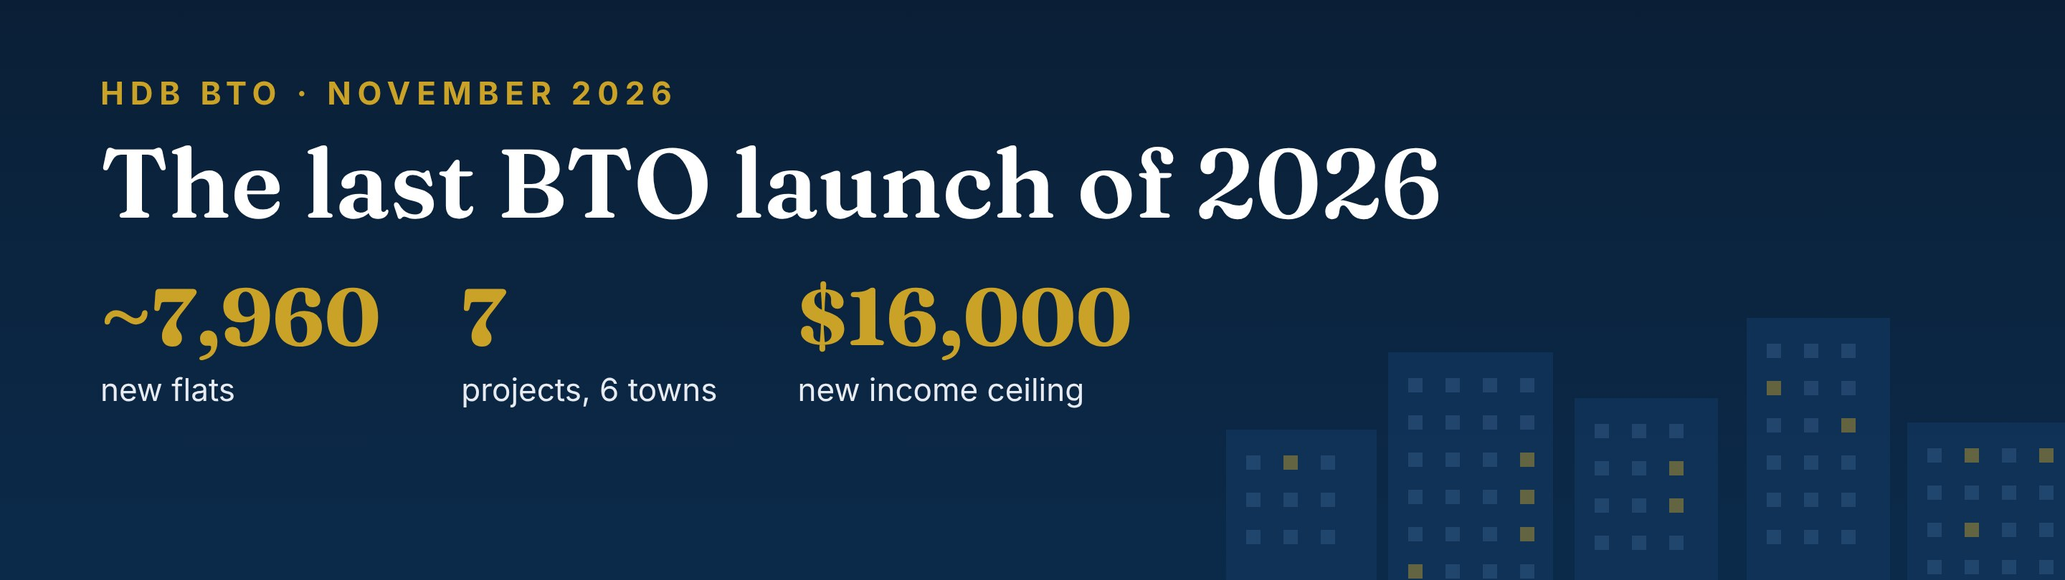
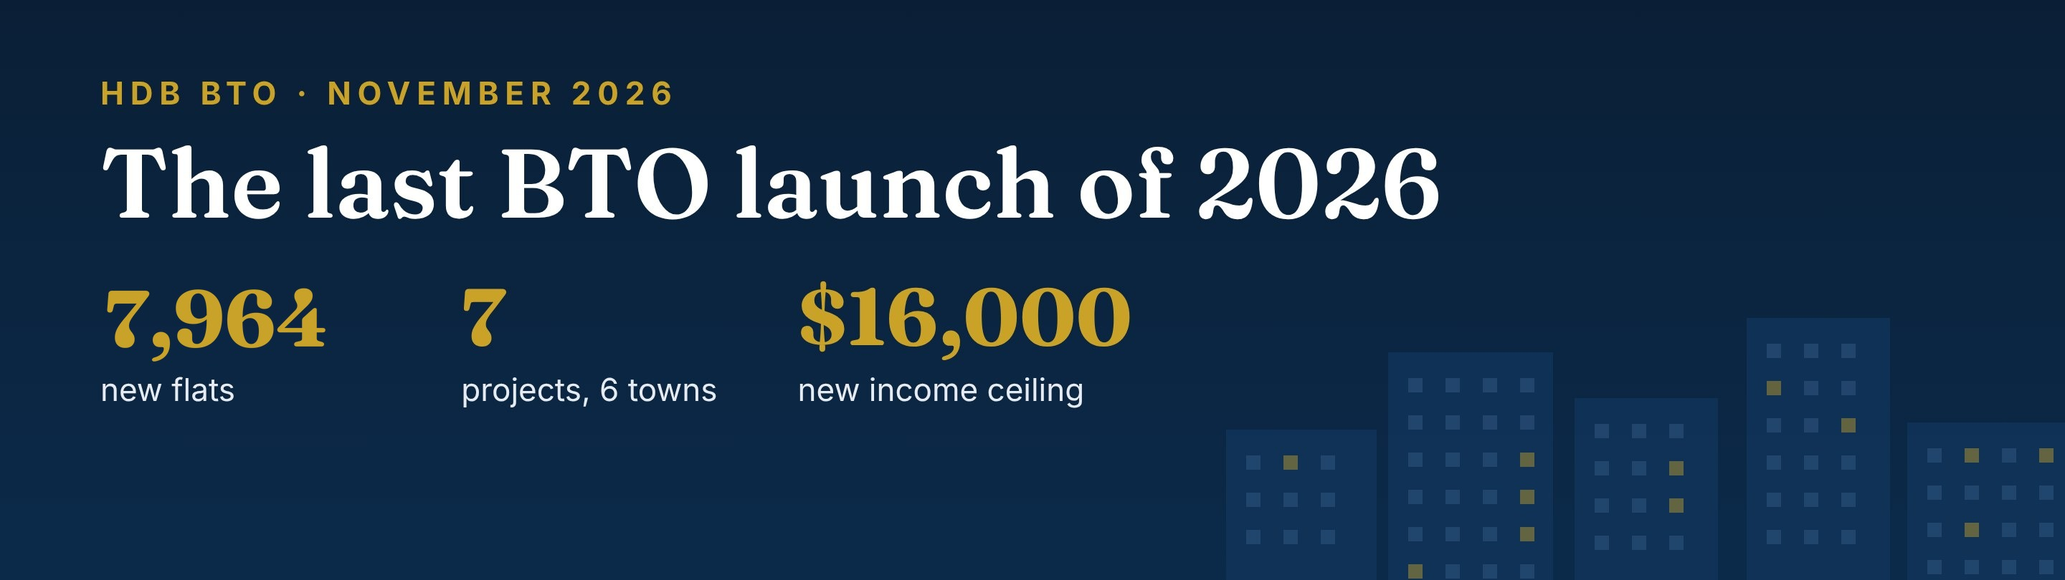
Nov 2026 BTO post: official launch details (HDB, 4 Nov 2026)
Official project names, tiers and subsidy recovery, unit counts, 4-room
prices before/after grants, waiting times, application window 4-11 Nov,
Feb 2027 plans. Regenerated banner, hero, map and flat-mix images.

Claude-Session: https://claude.ai/code/session_0178RRDYhp3XjPR3UywzJnpp

Changed region(s): [[0.0312, 0.4938, 0.1875, 0.6173]]

diff --git a/blog-post-november-2026-bto-launch.html b/blog-post-november-2026-bto-launch.html
@@ -3,24 +3,24 @@
 <head>
 <meta charset="UTF-8">
 <meta name="viewport" content="width=device-width, initial-scale=1.0">
-<title>Nov 2026 BTO Launch: 7 Projects, ~7,960 Flats | Serene Lee</title>
-<meta name="description" content="HDB&#x27;s last 2026 BTO launch: Bayshore Oasis, Caldecott, Mattar, Chencharu, Sembawang Anchor, Plantation Dew (Tengah). Flat mix, prices, the $16,000 income ceiling, ballot tips.">
+<title>Nov 2026 BTO Launch: 7 Projects, 7,964 Flats | Serene Lee</title>
+<meta name="description" content="HDB&#x27;s last 2026 BTO launch (apply 4&ndash;11 Nov): Bayshore Sails, Bayshore Oasis, Toa Payoh Hillside, Merpati Meadow, Chencharu Acres, Sembawang Anchor, Plantation Dew. Official tiers, prices, waiting times and ballot tips.">
 <link rel="canonical" href="https://sereneleeproperty.com/blog-post-november-2026-bto-launch">
-<meta property="og:title" content="Nov 2026 BTO Launch: 7 Projects, ~7,960 Flats | Serene Lee">
-<meta property="og:description" content="HDB&#x27;s last 2026 BTO launch: Bayshore Oasis, Caldecott, Mattar, Chencharu, Sembawang Anchor, Plantation Dew (Tengah). Flat mix, prices, the $16,000 income ceiling, ballot tips.">
+<meta property="og:title" content="Nov 2026 BTO Launch: 7 Projects, 7,964 Flats | Serene Lee">
+<meta property="og:description" content="HDB&#x27;s last 2026 BTO launch (apply 4&ndash;11 Nov): Bayshore Sails, Bayshore Oasis, Toa Payoh Hillside, Merpati Meadow, Chencharu Acres, Sembawang Anchor, Plantation Dew. Official tiers, prices, waiting times and ballot tips.">
 <meta property="og:image" content="https://sereneleeproperty.com/assets/bto-nov-2026-hero.jpg">
 <meta property="og:url" content="https://sereneleeproperty.com/blog-post-november-2026-bto-launch">
 <meta property="og:type" content="article">
 <meta name="twitter:card" content="summary_large_image">
-<meta name="twitter:title" content="Nov 2026 BTO Launch: 7 Projects, ~7,960 Flats | Serene Lee">
-<meta name="twitter:description" content="HDB&#x27;s last 2026 BTO launch: Bayshore Oasis, Caldecott, Mattar, Chencharu, Sembawang Anchor, Plantation Dew (Tengah). Flat mix, prices, the $16,000 income ceiling, ballot tips.">
+<meta name="twitter:title" content="Nov 2026 BTO Launch: 7 Projects, 7,964 Flats | Serene Lee">
+<meta name="twitter:description" content="HDB&#x27;s last 2026 BTO launch (apply 4&ndash;11 Nov): Bayshore Sails, Bayshore Oasis, Toa Payoh Hillside, Merpati Meadow, Chencharu Acres, Sembawang Anchor, Plantation Dew. Official tiers, prices, waiting times and ballot tips.">
 <meta name="twitter:image" content="https://sereneleeproperty.com/assets/bto-nov-2026-hero.jpg">
 <script type="application/ld+json">
 {
   "@context": "https://schema.org",
   "@type": "BlogPosting",
-  "headline": "November 2026 BTO Launch: 7 Projects, ~7,960 Flats — What Buyers Need to Know",
-  "description": "HDB's last 2026 BTO launch: Bayshore Oasis, Caldecott, Mattar, Chencharu, Sembawang Anchor, Plantation Dew (Tengah). Flat mix, prices, the $16,000 income ceiling, ballot tips.",
+  "headline": "November 2026 BTO Launch: 7 Projects, 7,964 Flats — What Buyers Need to Know",
+  "description": "HDB's last 2026 BTO launch (apply 4–11 Nov): Bayshore Sails, Bayshore Oasis, Toa Payoh Hillside, Merpati Meadow, Chencharu Acres, Sembawang Anchor, Plantation Dew. Official tiers, prices, waiting times and ballot tips.",
   "image": "https://sereneleeproperty.com/assets/bto-nov-2026-hero.jpg",
   "author": { "@type": "Person", "name": "Serene Lee", "url": "https://sereneleeproperty.com/about" },
   "publisher": {
@@ -29,7 +29,7 @@
     "logo": { "@type": "ImageObject", "url": "https://sereneleeproperty.com/assets/era-logo.png" }
   },
   "datePublished": "2026-10-19",
-  "dateModified": "2026-11-02",
+  "dateModified": "2026-11-05",
   "mainEntityOfPage": { "@type": "WebPage", "@id": "https://sereneleeproperty.com/blog-post-november-2026-bto-launch" }
 }
 </script>
@@ -54,7 +54,7 @@
 .post-hero-img{max-width:720px;margin:8px auto 0;}
 .post-hero-img img{width:100%;height:auto;border-radius:var(--radius);display:block;box-shadow:var(--shadow);}
 </style>
-<script type="application/ld+json" data-schema="breadcrumb">{"@context":"https://schema.org","@type":"BreadcrumbList","itemListElement":[{"@type":"ListItem","position":1,"name":"Home","item":"https://sereneleeproperty.com/"},{"@type":"ListItem","position":2,"name":"Blog","item":"https://sereneleeproperty.com/blog"},{"@type":"ListItem","position":3,"name":"Nov 2026 BTO Launch: 7 Projects, ~7,960 Flats","item":"https://sereneleeproperty.com/blog-post-november-2026-bto-launch"}]}</script>
+<script type="application/ld+json" data-schema="breadcrumb">{"@context":"https://schema.org","@type":"BreadcrumbList","itemListElement":[{"@type":"ListItem","position":1,"name":"Home","item":"https://sereneleeproperty.com/"},{"@type":"ListItem","position":2,"name":"Blog","item":"https://sereneleeproperty.com/blog"},{"@type":"ListItem","position":3,"name":"Nov 2026 BTO Launch: 7 Projects, 7,964 Flats","item":"https://sereneleeproperty.com/blog-post-november-2026-bto-launch"}]}</script>
 </head>
 <body>
 
@@ -101,29 +101,31 @@
 <div class="page-hero container">
   <a href="/blog" class="post-back">&larr; Back to Blog</a>
   <span class="eyebrow">HDB &middot; BTO Launch Guide</span>
-  <h1 style="font-size:2rem;max-width:760px;">November 2026 BTO Launch: 7 Projects, ~7,960 Flats &mdash; What Buyers Need to Know</h1>
-  <p class="post-meta">Updated 2 Nov 2026 &middot; 6 min read</p>
+  <h1 style="font-size:2rem;max-width:760px;">November 2026 BTO Launch: 7 Projects, 7,964 Flats &mdash; What Buyers Need to Know</h1>
+  <p class="post-meta">Updated 5 Nov 2026 &middot; 6 min read</p>
 </div>
 
 <div class="container">
   <div class="post-hero-img">
-    <img src="assets/bto-nov-2026-banner.jpg" alt="November 2026 HDB BTO launch: about 7,960 new flats, 7 projects in 6 towns, and a new $16,000 family income ceiling." width="1440" height="405">
+    <img src="assets/bto-nov-2026-banner.jpg" alt="November 2026 HDB BTO launch: 7,964 new flats, 7 projects in 6 towns, and a new $16,000 family income ceiling." width="1440" height="405">
   </div>
 </div>
 
 <section style="padding-top:28px;">
   <div class="container">
     <div class="post-body">
-      <p class="lede">HDB&rsquo;s final BTO exercise of 2026 lands in November with about 7,960 flats across 7 projects in 6 towns. It is also the first launch open to households earning up to $16,000 a month.</p>
+      <p class="lede">HDB&rsquo;s final BTO exercise of 2026 opened on 4 Nov with 7,964 flats across 7 projects in 6 towns. It is also the first launch open to households earning up to $16,000 a month.</p>
 
       <h2>At a glance</h2>
       <ul>
-        <li><strong>When:</strong> November 2026 (moved from October). Exact dates, prices and classifications are released on launch day.</li>
-        <li><strong>How many:</strong> ~7,960 flats in Bedok, Geylang, Sembawang, Tengah, Toa Payoh and Yishun.</li>
+        <li><strong>When (official):</strong> applications open 4&ndash;11 Nov 2026 (closes 11.59pm) on the HDB Flat Portal. Computer ballot, not first-come-first-served.</li>
+        <li><strong>How many (official):</strong> 7,964 flats in Bedok, Geylang, Sembawang, Tengah, Toa Payoh and Yishun.</li>
         <li><strong>Where:</strong> more than half the flats sit in mature estates &mdash; a rare chance to buy subsidised in towns where resale carries a premium.</li>
-        <li><strong>Shorter waiting times (official, HDB 1 Nov 2026):</strong> Sembawang Anchor 2 yrs 10 mths (completion around 2029); Bayshore Oasis and Plantation Dew 3 yrs 2 mths each.</li>
+        <li><strong>Tiers (official):</strong> 3 Standard, 3 Plus, 1 Prime. Plus and Prime flats carry a 10-year MOP and a subsidy recovery of 8&ndash;11% when you sell.</li>
+        <li><strong>Cheapest entry (official):</strong> 2-room Flexi at Plantation Dew from $131,000 before grants.</li>
+        <li><strong>Waiting times (official):</strong> Sembawang Anchor 2 yrs 10 mths (completion around 2029); Bayshore Oasis and Plantation Dew 3 yrs 2 mths; Merpati Meadow 3 yrs 3 mths; Bayshore Sails 3 yrs 8 mths; Toa Payoh Hillside 3 yrs 9 mths. All under 4 years.</li>
         <li><strong>Year total:</strong> rounds off ~19,600 BTO flats for 2026 across the February, June and November exercises.</li>
-        <li><strong>Hot picks:</strong> Caldecott (Toa Payoh) and Bayshore (Bedok) will likely draw the most applicants; Chencharu, Sembawang Anchor and Plantation Dew (Tengah) offer better odds and bigger flats.</li>
+        <li><strong>Hot picks:</strong> Toa Payoh Hillside and Bayshore (Bedok) will likely draw the most applicants; Chencharu Acres, Sembawang Anchor and Plantation Dew (Tengah) offer better odds and bigger flats.</li>
       </ul>
 
       <h2>What changed since the preview</h2>
@@ -140,55 +142,59 @@
 
       <h2>The 7 projects at a glance</h2>
       <figure class="post-figure">
-        <img src="assets/bto-nov-2026-map.jpg" alt="Schematic map of Singapore showing the seven November 2026 BTO projects: Plantation Dew in Tengah, Sembawang Anchor and Chencharu (Standard), Caldecott in Toa Payoh (Prime), Mattar in Geylang and Bayshore I and Bayshore Oasis in Bedok (Plus)." class="enlargeable-img" loading="lazy" width="1600">
+        <img src="assets/bto-nov-2026-map.jpg" alt="Schematic map of Singapore showing the seven November 2026 BTO projects: Plantation Dew in Tengah, Sembawang Anchor and Chencharu Acres in Yishun (Standard), Toa Payoh Hillside (Prime), Merpati Meadow in Geylang and Bayshore Sails and Bayshore Oasis in Bedok (Plus). Official tiers per HDB, 4 Nov 2026." class="enlargeable-img" loading="lazy" width="1600">
         <figcaption>Tap or click to enlarge</figcaption>
       </figure>
       <div class="post-table-wrap">
         <table>
           <thead>
-            <tr><th>Project</th><th>Units</th><th>Flat mix</th><th>Expected tier*</th><th>Nearest MRT</th><th>Est. 4-room from**</th></tr>
+            <tr><th>Project</th><th>Units</th><th>Flat mix</th><th>Tier (official)</th><th>Nearest MRT</th><th>4-room from (before / after grants)</th></tr>
           </thead>
           <tbody>
-            <tr><td>Bayshore I &amp; Bayshore Oasis, Bedok (2 projects)</td><td>2,495</td><td>1,240 2RF &middot; 90 3R &middot; 1,170 4R</td><td>Plus</td><td>Bayshore (TEL)</td><td>~$500k&ndash;$520k</td></tr>
-            <tr><td>Caldecott, Toa Payoh</td><td>1,430 (incl. 260 CCA)</td><td>260 CCA &middot; 590 2RF &middot; 580 4R</td><td>Prime</td><td>Caldecott (CCL/TEL)</td><td>~$550k</td></tr>
-            <tr><td>Mattar, Geylang</td><td>440</td><td>170 2RF &middot; 270 4R</td><td>Plus</td><td>Mattar (DTL)</td><td>~$500k&ndash;$550k</td></tr>
-            <tr><td>Chencharu, Yishun</td><td>1,580</td><td>390 2RF &middot; 80 3R &middot; 460 4R &middot; 650 5R</td><td>Standard</td><td>Khatib (NSL)</td><td>TBC</td></tr>
-            <tr><td>Sembawang Anchor (Sembawang North)</td><td>1,310</td><td>330 2RF &middot; 100 3R &middot; 460 4R &middot; 420 5R</td><td>Standard</td><td>&mdash;</td><td>~$330k</td></tr>
-            <tr><td>Plantation Dew (Tengah)</td><td>710</td><td>180 2RF &middot; 80 3R &middot; 170 4R &middot; 250 5R &middot; 30 3Gen</td><td>Standard</td><td>&mdash;</td><td>~$360k</td></tr>
+            <tr><td>Bayshore Sails &amp; Bayshore Oasis, Bedok (2 projects)</td><td>2,492</td><td>1,237 2RF &middot; 90 3R &middot; 1,165 4R</td><td>Plus (9% subsidy recovery)</td><td>Bayshore (TEL)</td><td>$559k / $504k (Oasis); Sails from $580k</td></tr>
+            <tr><td>Toa Payoh Hillside, Toa Payoh</td><td>1,432 (incl. 256 CCA)</td><td>256 CCA &middot; 592 2RF &middot; 584 4R</td><td>Prime (11% subsidy recovery)</td><td>Caldecott (CCL/TEL)</td><td>$558k / $503k</td></tr>
+            <tr><td>Merpati Meadow, Geylang</td><td>438</td><td>167 2RF &middot; 271 4R</td><td>Plus (8% subsidy recovery)</td><td>Mattar (DTL)</td><td>$545k / $490k</td></tr>
+            <tr><td>Chencharu Acres, Yishun</td><td>1,582</td><td>390 2RF &middot; 80 3R &middot; 460 4R &middot; 650 5R</td><td>Standard</td><td>Khatib (NSL)</td><td>$353k / $273k</td></tr>
+            <tr><td>Sembawang Anchor (Sembawang North)</td><td>1,310</td><td>330 2RF &middot; 100 3R &middot; 460 4R &middot; 420 5R</td><td>Standard</td><td>&mdash;</td><td>$312k / $232k</td></tr>
+            <tr><td>Plantation Dew (Tengah)</td><td>710</td><td>180 2RF &middot; 80 3R &middot; 170 4R &middot; 250 5R &middot; 30 3Gen</td><td>Standard</td><td>&mdash;</td><td>$339k / $259k</td></tr>
           </tbody>
         </table>
       </div>
-      <p class="table-note">2RF = 2-room Flexi &middot; CCA = Community Care Apartments (assisted living for seniors). *Industry expectation only &mdash; HDB confirms classification at launch. Plus and Prime flats carry a 10-year MOP and a subsidy recovery when you sell. **Analyst estimates before grants; official prices are published on launch day. Flat types and unit counts are per the HDB Flat Portal project pages. Bedok combines Bayshore I (1,640) and Bayshore Oasis (855, 2-room Flexi and 4-room only, per HDB 1 Nov 2026). Bedok flat-type split is from the preview; HDB confirms per-type counts at launch.</p>
+      <p class="table-note">2RF = 2-room Flexi &middot; CCA = Community Care Apartments (assisted living for seniors). Tiers and subsidy recovery rates are official (HDB, 4 Nov 2026). Plus and Prime flats carry a 10-year MOP and a subsidy recovery when you sell; Standard flats have a 5-year MOP and none. Prices are the official starting prices for 4-room flats, before and after grants. Bedok combines Bayshore Sails (1,637) and Bayshore Oasis (855, 2-room Flexi and 4-room only).</p>
 
       <figure class="post-figure">
-        <img src="assets/bto-nov-2026-flat-mix.jpg" alt="Stacked bar chart of flat mix by project. Bedok (Bayshore I and Bayshore Oasis) 2,495, Chencharu 1,580, Sembawang Anchor 1,310, Caldecott 1,170 sale flats, Plantation Dew (Tengah) 710, Mattar 440. Only Chencharu, Sembawang Anchor and Plantation Dew offer 5-room flats." class="enlargeable-img" loading="lazy" width="1600">
+        <img src="assets/bto-nov-2026-flat-mix.jpg" alt="Stacked bar chart of flat mix by project. Bayshore Sails and Bayshore Oasis (Bedok) 2,492, Chencharu Acres 1,582, Sembawang Anchor 1,310, Toa Payoh Hillside 1,176 sale flats, Plantation Dew (Tengah) 710, Merpati Meadow 438. Only Chencharu Acres, Sembawang Anchor and Plantation Dew offer 5-room flats." class="enlargeable-img" loading="lazy" width="1600">
         <figcaption>Tap or click to enlarge</figcaption>
       </figure>
 
       <h2>Project quick takes</h2>
-      <h3>Bayshore I &amp; Bayshore Oasis (Bedok) &mdash; 2,495 flats, the biggest share</h3>
+      <h3>Bayshore Sails &amp; Bayshore Oasis (Bedok) &mdash; 2,492 flats, the biggest share</h3>
       <ul>
         <li>Beside Bayshore MRT on the Thomson-East Coast Line, a short walk to East Coast Park.</li>
         <li><strong>Bayshore Oasis (official):</strong> 855 flats (2-room Flexi and 4-room) in 4 blocks, with a shorter waiting time of 3 years 2 months.</li>
+        <li><strong>Bayshore Sails (official):</strong> 1,637 flats (2-room Flexi, 3-room and 4-room), waiting time 3 years 8 months.</li>
+        <li><strong>Plus (official):</strong> 10-year MOP and 9% subsidy recovery for both projects.</li>
         <li>Over half the supply is 2-room Flexi &mdash; strong for singles and seniors.</li>
         <li>Value check: Vela Bay, the area&rsquo;s first condo, sold 72% of units on launch weekend at an average of ~$2,886 psf.</li>
         <li>Compare with resale prices nearby in the <a href="/bedok">Bedok town guide</a>.</li>
       </ul>
-      <h3>Caldecott (Toa Payoh) &mdash; likely the hottest ticket</h3>
+      <h3>Toa Payoh Hillside (Toa Payoh) &mdash; likely the hottest ticket</h3>
       <ul>
         <li>Right next to the Caldecott CCL/TEL interchange, in a mature estate.</li>
+        <li><strong>Prime (official):</strong> 10-year MOP and 11% subsidy recovery. Waiting time 3 years 9 months.</li>
         <li>Only 2-room Flexi and 4-room; no 5-room.</li>
-        <li>Toa Payoh&rsquo;s first Community Care Apartments (260 units).</li>
+        <li>Toa Payoh&rsquo;s first Community Care Apartments (256 units).</li>
         <li>Recent Toa Payoh 4-room launches drew first-timer application rates of up to 6.4x &mdash; expect tough odds.</li>
         <li>Compare with resale prices nearby in the <a href="/toa-payoh">Toa Payoh town guide</a>.</li>
       </ul>
-      <h3>Mattar (Geylang) &mdash; smallest, but competitive</h3>
+      <h3>Merpati Meadow (Geylang) &mdash; smallest, but competitive</h3>
       <ul>
-        <li>Only 440 units, walking distance to Mattar MRT (Downtown Line).</li>
+        <li>Only 438 units, walking distance to Mattar MRT (Downtown Line).</li>
+        <li><strong>Plus (official):</strong> 10-year MOP and 8% subsidy recovery. Waiting time 3 years 3 months.</li>
         <li>Geylang&rsquo;s last BTO was Merpati Alcove (Oct 2024, 443 units), so pent-up demand is likely.</li>
         <li>Compare with resale prices nearby in the <a href="/geylang">Geylang town guide</a>.</li>
       </ul>
-      <h3>Chencharu (Yishun) &mdash; best for larger families</h3>
+      <h3>Chencharu Acres (Yishun) &mdash; best for larger families</h3>
       <ul>
         <li>Largest 5-room supply in this launch: 650 units.</li>
         <li>Fifth project in the Chencharu precinct near Khatib MRT; 2 preschools planned on-site.</li>
@@ -204,10 +210,10 @@
       <h3>Plantation Dew (Tengah) &mdash; first Tengah launch in ~3 years</h3>
       <ul>
         <li><strong>Shorter waiting time (official):</strong> 3 years 2 months.</li>
-        <li><strong>White Flats:</strong> open-concept units with no internal partition walls &mdash; the first BTO to offer them in 5-room flats.</li>
+        <li><strong>White Flats:</strong> open-concept units with no internal partition walls &mdash; the first BTO to offer them in 5-room flats. They cost $6,000 (3-room), $8,600 (4-room) and $9,000 (5-room) less than standard layouts.</li>
         <li>Walking distance to upcoming Jurong Region Line stations (opening in stages from 2028 to 2029).</li>
         <li>Plantation district; every flat type on offer, including the launch&rsquo;s only 30 3Gen flats.</li>
-        <li>4-room estimated from ~$360k &mdash; one of the cheapest entry points this round.</li>
+        <li><strong>Prices (official):</strong> 2-room Flexi from $131,000 and 4-room from $339,000 before grants &mdash; among the cheapest entry points this round.</li>
       </ul>
 
       <h2>Which project suits you?</h2>
@@ -215,18 +221,18 @@
         <table>
           <thead><tr><th>If you are&hellip;</th><th>Look at</th><th>Trade-off</th></tr></thead>
           <tbody>
-            <tr><td>Single, 35+, earning &le;$8,000</td><td>2-room Flexi at Bayshore, Caldecott or Chencharu</td><td>City-fringe picks mean a 10-year MOP</td></tr>
-            <tr><td>Young couple wanting city-fringe</td><td>Caldecott, Mattar, Bayshore</td><td>Higher price, tighter odds, 10-year MOP</td></tr>
-            <tr><td>Growing family needing space</td><td>Chencharu, Sembawang Anchor, Plantation Dew (Tengah)</td><td>Further from town; Standard = 5-year MOP</td></tr>
+            <tr><td>Single, 35+, earning &le;$8,000</td><td>2-room Flexi at Bayshore, Toa Payoh Hillside or Chencharu Acres</td><td>City-fringe picks mean a 10-year MOP</td></tr>
+            <tr><td>Young couple wanting city-fringe</td><td>Toa Payoh Hillside, Merpati Meadow, Bayshore</td><td>Higher price, tighter odds, 10-year MOP</td></tr>
+            <tr><td>Growing family needing space</td><td>Chencharu Acres, Sembawang Anchor, Plantation Dew (Tengah)</td><td>Further from town; Standard = 5-year MOP</td></tr>
             <tr><td>Multi-generation household</td><td>Plantation Dew, Tengah (3Gen)</td><td>Only 30 units</td></tr>
-            <tr><td>Senior wanting assisted living</td><td>Caldecott (CCA)</td><td>Limited supply; eligibility rules apply</td></tr>
+            <tr><td>Senior wanting assisted living</td><td>Toa Payoh Hillside (CCA)</td><td>Limited supply; CCA eligibility age lowered from 65 to 55 from this launch</td></tr>
           </tbody>
         </table>
       </div>
 
       <h2>My ballot strategy tips</h2>
       <ul>
-        <li><strong>Pick by need, not hype.</strong> Caldecott and Bayshore will be oversubscribed; a project you can actually win beats one you only dream about.</li>
+        <li><strong>Pick by need, not hype.</strong> Toa Payoh Hillside and Bayshore will be oversubscribed; a project you can actually win beats one you only dream about.</li>
         <li><strong>Price in the 10-year MOP.</strong> Plus and Prime flats lock you in for a decade, and HDB claws back part of the subsidy when you sell. If you plan to upgrade within 5&ndash;7 years, a Standard flat fits better.</li>
         <li><strong>Watch the live application rates.</strong> HDB publishes them during the window. Applications are balloted, so day 1 has no advantage over the last day.</li>
         <li><strong>Budget beyond the price tag.</strong> Add renovation and several years of waiting time (and rent, if you need a home now).</li>
@@ -235,7 +241,7 @@
 
       <h2 id="plan-b">Missed the HFE deadline &mdash; or the ballot? Your Plan B</h2>
       <ul>
-        <li><strong>Next BTO: February 2027.</strong> It is the first exercise with an extra ballot chance per child for first-timer families.</li>
+        <li><strong>Next BTO: February 2027.</strong> About 4,300 flats in Bishan, Tampines, Tengah and Toa Payoh, plus a Sale of Balance Flats exercise (~5,000 flats). It is the first exercise with an extra ballot chance per child for first-timer families. Submit your HFE application by 15 Dec 2026.</li>
         <li><strong>HDB resale:</strong> no multi-year wait, you choose the exact unit and floor, and CPF Housing Grants still apply.</li>
         <li><strong>Upgrading instead?</strong> Bayshore&rsquo;s condo launch shows how wide the BTO-to-private price gap is &mdash; worth running the numbers before you commit to a 10-year MOP.</li>
       </ul>
@@ -244,12 +250,13 @@
       <ul>
         <li><strong>24 Aug 2026:</strong> new income ceilings take effect.</li>
         <li><strong>25 Sep 2026:</strong> HFE supporting documents due for the November exercise (passed).</li>
-        <li><strong>November 2026:</strong> BTO sales launch &mdash; exact date, prices and classifications TBC.</li>
+        <li><strong>4&ndash;11 Nov 2026:</strong> BTO applications open (closes 11.59pm on 11 Nov).</li>
+        <li><strong>15 Dec 2026:</strong> submit HFE application to be in time for February 2027.</li>
         <li><strong>February 2027:</strong> next BTO exercise.</li>
       </ul>
 
-      <p class="post-ai-note" style="font-size:.82rem;color:var(--muted);font-style:italic;margin-top:32px;padding:12px 16px;border-left:3px solid var(--gold);background:var(--cream);border-radius:6px;">This article was prepared with AI assistance and reviewed by Serene Lee. Figures are based on HDB/MND announcements and industry estimates; please verify with the <a href="https://homes.hdb.gov.sg/" target="_blank" rel="noopener">HDB Flat Portal</a> before making any decision.</p>
-      <p class="post-sources">Information as of 2 Nov 2026. Sources: <a href="https://www.hdb.gov.sg/hdb-pulse/news/2026/1310-shorter-waiting-time-flats-to-be-offered-in-november-2026-bto-exercise" target="_blank" rel="noopener">HDB (1 Nov 2026)</a> &middot; <a href="https://sg.news.yahoo.com/1-310-bto-flats-sembawang-020000312.html" target="_blank" rel="noopener">The Straits Times</a> &middot; <a href="https://www.asiaone.com/singapore/hdb-sembawang-shorter-waiting-times-november-bto-sales-exercise" target="_blank" rel="noopener">AsiaOne</a> &middot; <a href="https://goodyfeed.com/1310-sembawang-bto-flats-with-a-wait-of-two-years-10-months-to-launch-in-november/" target="_blank" rel="noopener">Goody Feed</a> &middot; <a href="https://www.propertyguru.com.sg/property-guides/november-2026-bto-launch-preview-pjx-98679" target="_blank" rel="noopener">PropertyGuru</a> &middot; <a href="https://uchify.com/hdb-bto-november-2026-launch/" target="_blank" rel="noopener">Uchify</a> &middot; <a href="https://www.edgeprop.sg/property-news/hottest-and-coolest-picks-june-and-october-bto-launches" target="_blank" rel="noopener">EdgeProp</a> &middot; <a href="https://ohmyhome.com/en-sg/blog/the-complete-guide-to-the-october-2026-bto-launch-sites-what-buyers-should-know/" target="_blank" rel="noopener">Ohmyhome</a> &middot; <a href="https://www.era.com.sg/blogs/october-2026-bto-launch-preview" target="_blank" rel="noopener">ERA</a> &middot; <a href="https://sg.properties/articles/next-bto-launch-2027" target="_blank" rel="noopener">sg.properties</a> &middot; <a href="https://www.homeswift.ai/articles/bto-hdb/november-2026-bto-launch-guide" target="_blank" rel="noopener">Homeswift</a> &middot; <a href="https://www.recordbto.com/bto-sales-launch/nov-2026-bto" target="_blank" rel="noopener">RecordBTO</a> &middot; <a href="https://homes.hdb.gov.sg/" target="_blank" rel="noopener">HDB Flat Portal</a></p>
+      <p class="post-ai-note" style="font-size:.82rem;color:var(--muted);font-style:italic;margin-top:32px;padding:12px 16px;border-left:3px solid var(--gold);background:var(--cream);border-radius:6px;">This article was prepared with AI assistance and reviewed by Serene Lee. Figures are based on HDB&rsquo;s official launch announcement of 4 Nov 2026; please verify with the <a href="https://homes.hdb.gov.sg/" target="_blank" rel="noopener">HDB Flat Portal</a> before making any decision.</p>
+      <p class="post-sources">Information as of 5 Nov 2026. Sources: <a href="https://www.hdb.gov.sg/hdb-pulse/news/2026/hdb-launches-7964-flats-across-seven-projects-in-nov-2026-bto-sales-exercise" target="_blank" rel="noopener">HDB (4 Nov 2026)</a> &middot; <a href="https://www.mynicehome.gov.sg/get-started/hdb-bto-sales-launch/" target="_blank" rel="noopener">HDB MyNiceHome</a> &middot; <a href="https://sg.news.yahoo.com/7-964-bto-flats-launched-021938878.html" target="_blank" rel="noopener">The Straits Times (4 Nov)</a> &middot; <a href="https://www.asiaone.com/singapore/hdb-bto-november-2026-sales-exercise" target="_blank" rel="noopener">AsiaOne (4 Nov)</a> &middot; <a href="https://www.edgeprop.sg/property-news/november-bto-exercise-launches-nearly-8000-flats-including-toa-payoh-and-bayshore-units" target="_blank" rel="noopener">EdgeProp (4 Nov)</a> &middot; <a href="https://stackedhomes.com/november-2026-bto-review/" target="_blank" rel="noopener">Stacked Homes</a> &middot; <a href="https://www.hdb.gov.sg/hdb-pulse/news/2026/1310-shorter-waiting-time-flats-to-be-offered-in-november-2026-bto-exercise" target="_blank" rel="noopener">HDB (1 Nov 2026)</a> &middot; <a href="https://sg.news.yahoo.com/1-310-bto-flats-sembawang-020000312.html" target="_blank" rel="noopener">The Straits Times</a> &middot; <a href="https://www.asiaone.com/singapore/hdb-sembawang-shorter-waiting-times-november-bto-sales-exercise" target="_blank" rel="noopener">AsiaOne</a> &middot; <a href="https://goodyfeed.com/1310-sembawang-bto-flats-with-a-wait-of-two-years-10-months-to-launch-in-november/" target="_blank" rel="noopener">Goody Feed</a> &middot; <a href="https://www.propertyguru.com.sg/property-guides/november-2026-bto-launch-preview-pjx-98679" target="_blank" rel="noopener">PropertyGuru</a> &middot; <a href="https://uchify.com/hdb-bto-november-2026-launch/" target="_blank" rel="noopener">Uchify</a> &middot; <a href="https://www.edgeprop.sg/property-news/hottest-and-coolest-picks-june-and-october-bto-launches" target="_blank" rel="noopener">EdgeProp</a> &middot; <a href="https://ohmyhome.com/en-sg/blog/the-complete-guide-to-the-october-2026-bto-launch-sites-what-buyers-should-know/" target="_blank" rel="noopener">Ohmyhome</a> &middot; <a href="https://www.era.com.sg/blogs/october-2026-bto-launch-preview" target="_blank" rel="noopener">ERA</a> &middot; <a href="https://sg.properties/articles/next-bto-launch-2027" target="_blank" rel="noopener">sg.properties</a> &middot; <a href="https://www.homeswift.ai/articles/bto-hdb/november-2026-bto-launch-guide" target="_blank" rel="noopener">Homeswift</a> &middot; <a href="https://www.recordbto.com/bto-sales-launch/nov-2026-bto" target="_blank" rel="noopener">RecordBTO</a> &middot; <a href="https://homes.hdb.gov.sg/" target="_blank" rel="noopener">HDB Flat Portal</a></p>
     </div>
 
     <div class="post-related">
@@ -294,7 +301,7 @@
       <p><strong>Serene Lee</strong> &middot; CEA Registration No. R027578Z</p>
       <p><a href="/privacy" class="footer-subscribe">Privacy Policy</a> &middot; <a href="/useful-numbers" class="footer-subscribe">Useful Phone Numbers</a></p>
       <p><a href="/subscribers" class="footer-subscribe">Subscribe to my blog &amp; newsletter &rarr;</a></p>
-      <p>Unit counts, flat classifications and prices in this article are based on HDB/MND announcements (latest 1 Nov 2026) and industry estimates as of 2 Nov 2026, and are indicative until HDB&rsquo;s official launch. Always verify on the HDB Flat Portal. This website is for general information only and does not constitute financial, mortgage, or legal advice.</p>
+      <p>Unit counts, flat classifications and prices in this article are based on HDB&rsquo;s official launch announcement of 4 Nov 2026 and reports of it, as of 5 Nov 2026. Always verify on the HDB Flat Portal. This website is for general information only and does not constitute financial, mortgage, or legal advice.</p>
       <p>&copy; <span id="year"></span> Serene Lee. All rights reserved.</p>
     </div>
   </div>

diff --git a/blog.html b/blog.html
@@ -113,13 +113,13 @@
     </div>
     <div class="own-post-card">
       <div class="blog-row-thumb">
-        <img src="assets/bto-nov-2026-hero.jpg" alt="November 2026 BTO launch: about 7,960 flats across 7 projects">
+        <img src="assets/bto-nov-2026-hero.jpg" alt="November 2026 BTO launch: 7,964 flats across 7 projects">
       </div>
       <div>
         <span class="blog-tag blog-tag-own">BTO Guide</span>
-        <span style="font-size:.75rem;color:var(--muted);margin-left:8px;">2 Nov 2026 &middot; 6 min read</span>
-        <div class="blog-title" style="font-size:1.2rem;">November 2026 BTO Launch: 7 Projects, ~7,960 Flats</div>
-        <div class="blog-excerpt" style="max-width:700px;">Bayshore Oasis, Caldecott, Mattar, Chencharu, Sembawang Anchor and Plantation Dew (Tengah): flat mix, expected tiers, estimated prices, the new $16,000 income ceiling and my ballot tips.</div>
+        <span style="font-size:.75rem;color:var(--muted);margin-left:8px;">Updated 5 Nov 2026 &middot; 6 min read</span>
+        <div class="blog-title" style="font-size:1.2rem;">November 2026 BTO Launch: 7 Projects, 7,964 Flats</div>
+        <div class="blog-excerpt" style="max-width:700px;">Applications open 4&ndash;11 Nov. Bayshore Sails, Bayshore Oasis, Toa Payoh Hillside, Merpati Meadow, Chencharu Acres, Sembawang Anchor and Plantation Dew: official tiers, prices, waiting times and my ballot tips.</div>
         <a href="/blog-post-november-2026-bto-launch" style="font-size:.85rem;font-weight:700;color:var(--navy-900);">Read the full guide &rarr;</a>
       </div>
     </div>

diff --git a/index.html b/index.html
@@ -310,10 +310,10 @@
     <div class="card-grid">
       <a href="/blog-post-november-2026-bto-launch" class="launch-card">
         <div class="launch-thumb">
-          <img src="assets/bto-nov-2026-hero.jpg" alt="November 2026 BTO launch: about 7,960 flats across 7 projects">
+          <img src="assets/bto-nov-2026-hero.jpg" alt="November 2026 BTO launch: 7,964 flats across 7 projects">
         </div>
         <div class="launch-body">
-          <div class="launch-name">November 2026 BTO Launch: 7 Projects, ~7,960 Flats</div>
+          <div class="launch-name">November 2026 BTO Launch: 7 Projects, 7,964 Flats</div>
           <div class="launch-meta">HDB BTO Guide &middot; 6 min read</div>
           <span style="font-size:.85rem;font-weight:700;color:var(--navy-900);margin-top:auto;">Read the Guide &rarr;</span>
         </div>
